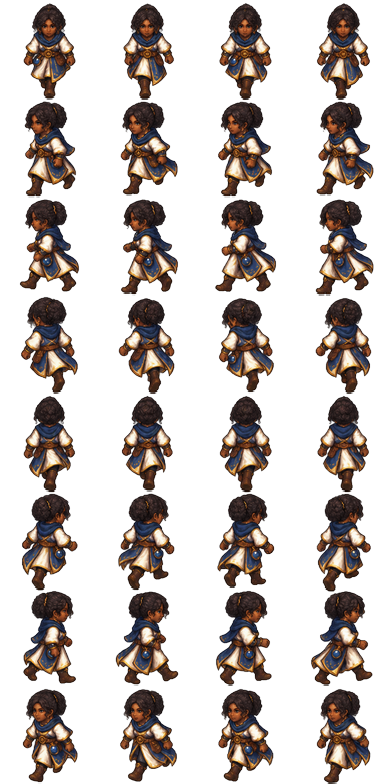
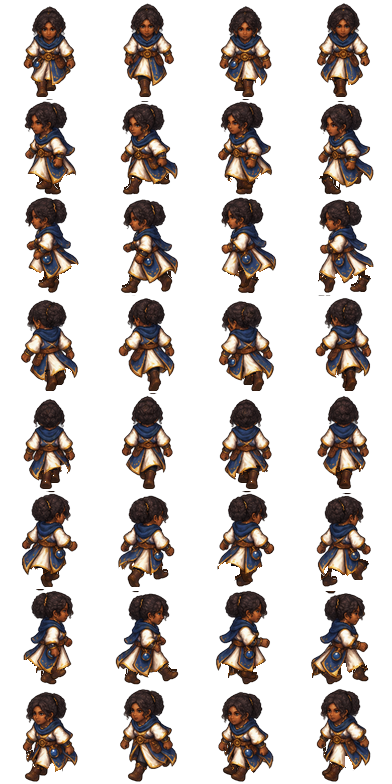
commit

diff --git a/RELATORIO_maga-base-caminhada.md b/RELATORIO_maga-base-caminhada.md
@@ -1,0 +1,57 @@
+# Legends of Aether — Maga Base: nova caminhada em 8 direções
+
[1 lines of base64/hex data omitted]
+
+## O que muda
+
+Somente 2 arquivos, nos mesmos caminhos de antes:
+
+- `assets/images/characters/player/mage_f_base.png`
+- `assets/images/characters/player/mage_f_base_outline.png`
+
+Nenhum arquivo de código foi alterado. O formato é idêntico ao anterior: 392×784, 4 quadros por direção × 8 direções, quadros de 96×96 com margem 1 e espaçamento 2 (a configuração especial da `mage_f` no `PreloadScene` continua valendo). A altura e a largura da personagem, o tamanho padrão do jogo, foram mantidos: os pés continuam em y=95 e nenhum quadro ultrapassa 96×96.
+
+`backup_originais/` traz as duas folhas anteriores. Essa pasta fica fora de `assets/` para não ir ao `dist`.
+
+## Diagnóstico da folha anterior
+
+- Frente, costas e diagonais com saia: as botas quase não mudavam entre os 4 quadros (só um pé aparecia) e quem se mexia eram os braços.
+- Perfis e diagonais: as pernas ficavam sempre abertas, sem quadro de passagem e sem balanço vertical do corpo.
+
+## Como foi feito
+
+Não há geração de arte nova. É uma reanimação por recorte, com os pixels originais, o que preserva o nível de detalhe já aprovado:
+
+1. A barra da saia define o corte entre corpo e pernas. As botas são extraídas como peças, filtrando os fios dourados da barra.
+2. Cada quadro é recomposto com o corpo original daquele quadro (braços e fluxo da saia como já estavam), mais as botas reposicionadas num ciclo de 4 quadros: contato → passagem → contato com os pés trocados → passagem. O pé de trás levanta e passa à frente na passagem.
+3. O corpo desce 2 a 3 px nos quadros de contato (3 px na frente, costas e diagonais com um pé só visível; 2 px nos perfis e nas diagonais com dois pés visíveis).
+4. A canela entre a bota e a barra é preenchida em sombra para não abrir fresta. Na diagonal frente-esquerda, onde a segunda bota era só um pedaço parcial, a bota distante é a bota principal espelhada e escurecida.
+5. O contorno (`_outline`) foi regenerado para os novos quadros: anel de 1 px, cor (241,196,15), em volta da silhueta.
+
+## Quadro de parado (quadro 1 de cada direção)
+
+- Idêntico ao original (0 pixels diferentes): frente, costas, diagonal costas-direita (linha 3 da folha) e diagonal frente-direita.
+- Perfil esquerdo: 32 pixels diferentes (recomposição das botas).
+- Diagonal frente-esquerda, diagonal costas-esquerda (linha 5 da folha) e perfil direito: o corpo desce 2 px, porque a cabeça já encosta no topo do quadro e não há folga para subir nos quadros de passagem.
+
+## Validação realizada
+
+- Dimensões e layout da folha e do contorno conferem com os originais (392×784, RGBA).
+- Nenhum quadro fora de 96×96; nenhum fragmento solto novo (checagem por componentes conectados).
+- Jogo carregado no Chromium 141 (Playwright, WebGL por software): textura `player-mage_f-base` 392×784 com 33 quadros, 0 erros de console/página. As animações leem as linhas corretas por direção, inclusive a troca de diagonais já existente para a `mage_f` (frente 0–3, frente-esq. 4–7, esquerda 8–11, costas-dir. 12–15, costas 16–19, costas-esq. 20–23, direita 24–27, frente-dir. 28–31).
+- Capturas em jogo dos 32 quadros: renderizam corretamente, mas nomes e barras de vida de inimigos próximos cobriram os pés, então o movimento das pernas foi julgado pela prévia animada.
+- O código do jogo é o mesmo da base (nenhuma mudança), então os testes unitários e o `tsc` não são afetados.
+
+## Limitações
+
+- Reanimação por recorte, não arte pintada quadro a quadro. Podem restar pequenos artefatos de borda (por exemplo, pixels escuros isolados perto da barra em alguns quadros de perfil/diagonais). Recomendo revisar a prévia animada antes de aprovar.
+- O contorno reproduz o original com cerca de 87% de coincidência pixel a pixel; podem existir diferenças pequenas na borda.
+- Não foi verificado o encaixe com a velocidade real de movimento (deslizar de pés).
+- Os estados da Maga com arma, armadura e arma+armadura (`mage_f_weapon`, `mage_f_armor`, `mage_f_weapon_armor`) **não foram alterados** e continuam com a caminhada antiga. Ao equipar algo, o problema volta. O mesmo método pode ser aplicado a eles.
+- O ciclo continua com 4 quadros a 8 fps. Um ciclo mais longo exigiria mudar o carregamento e as animações, o que não foi feito.
+
+## Como aplicar
+
+Extraia o ZIP sobre a raiz do projeto, substituindo os 2 PNGs. Confirme no jogo com a Maga selecionada.
+
+`preview_antes_depois.gif` mostra as 8 direções, antes e depois, a 8 fps.
